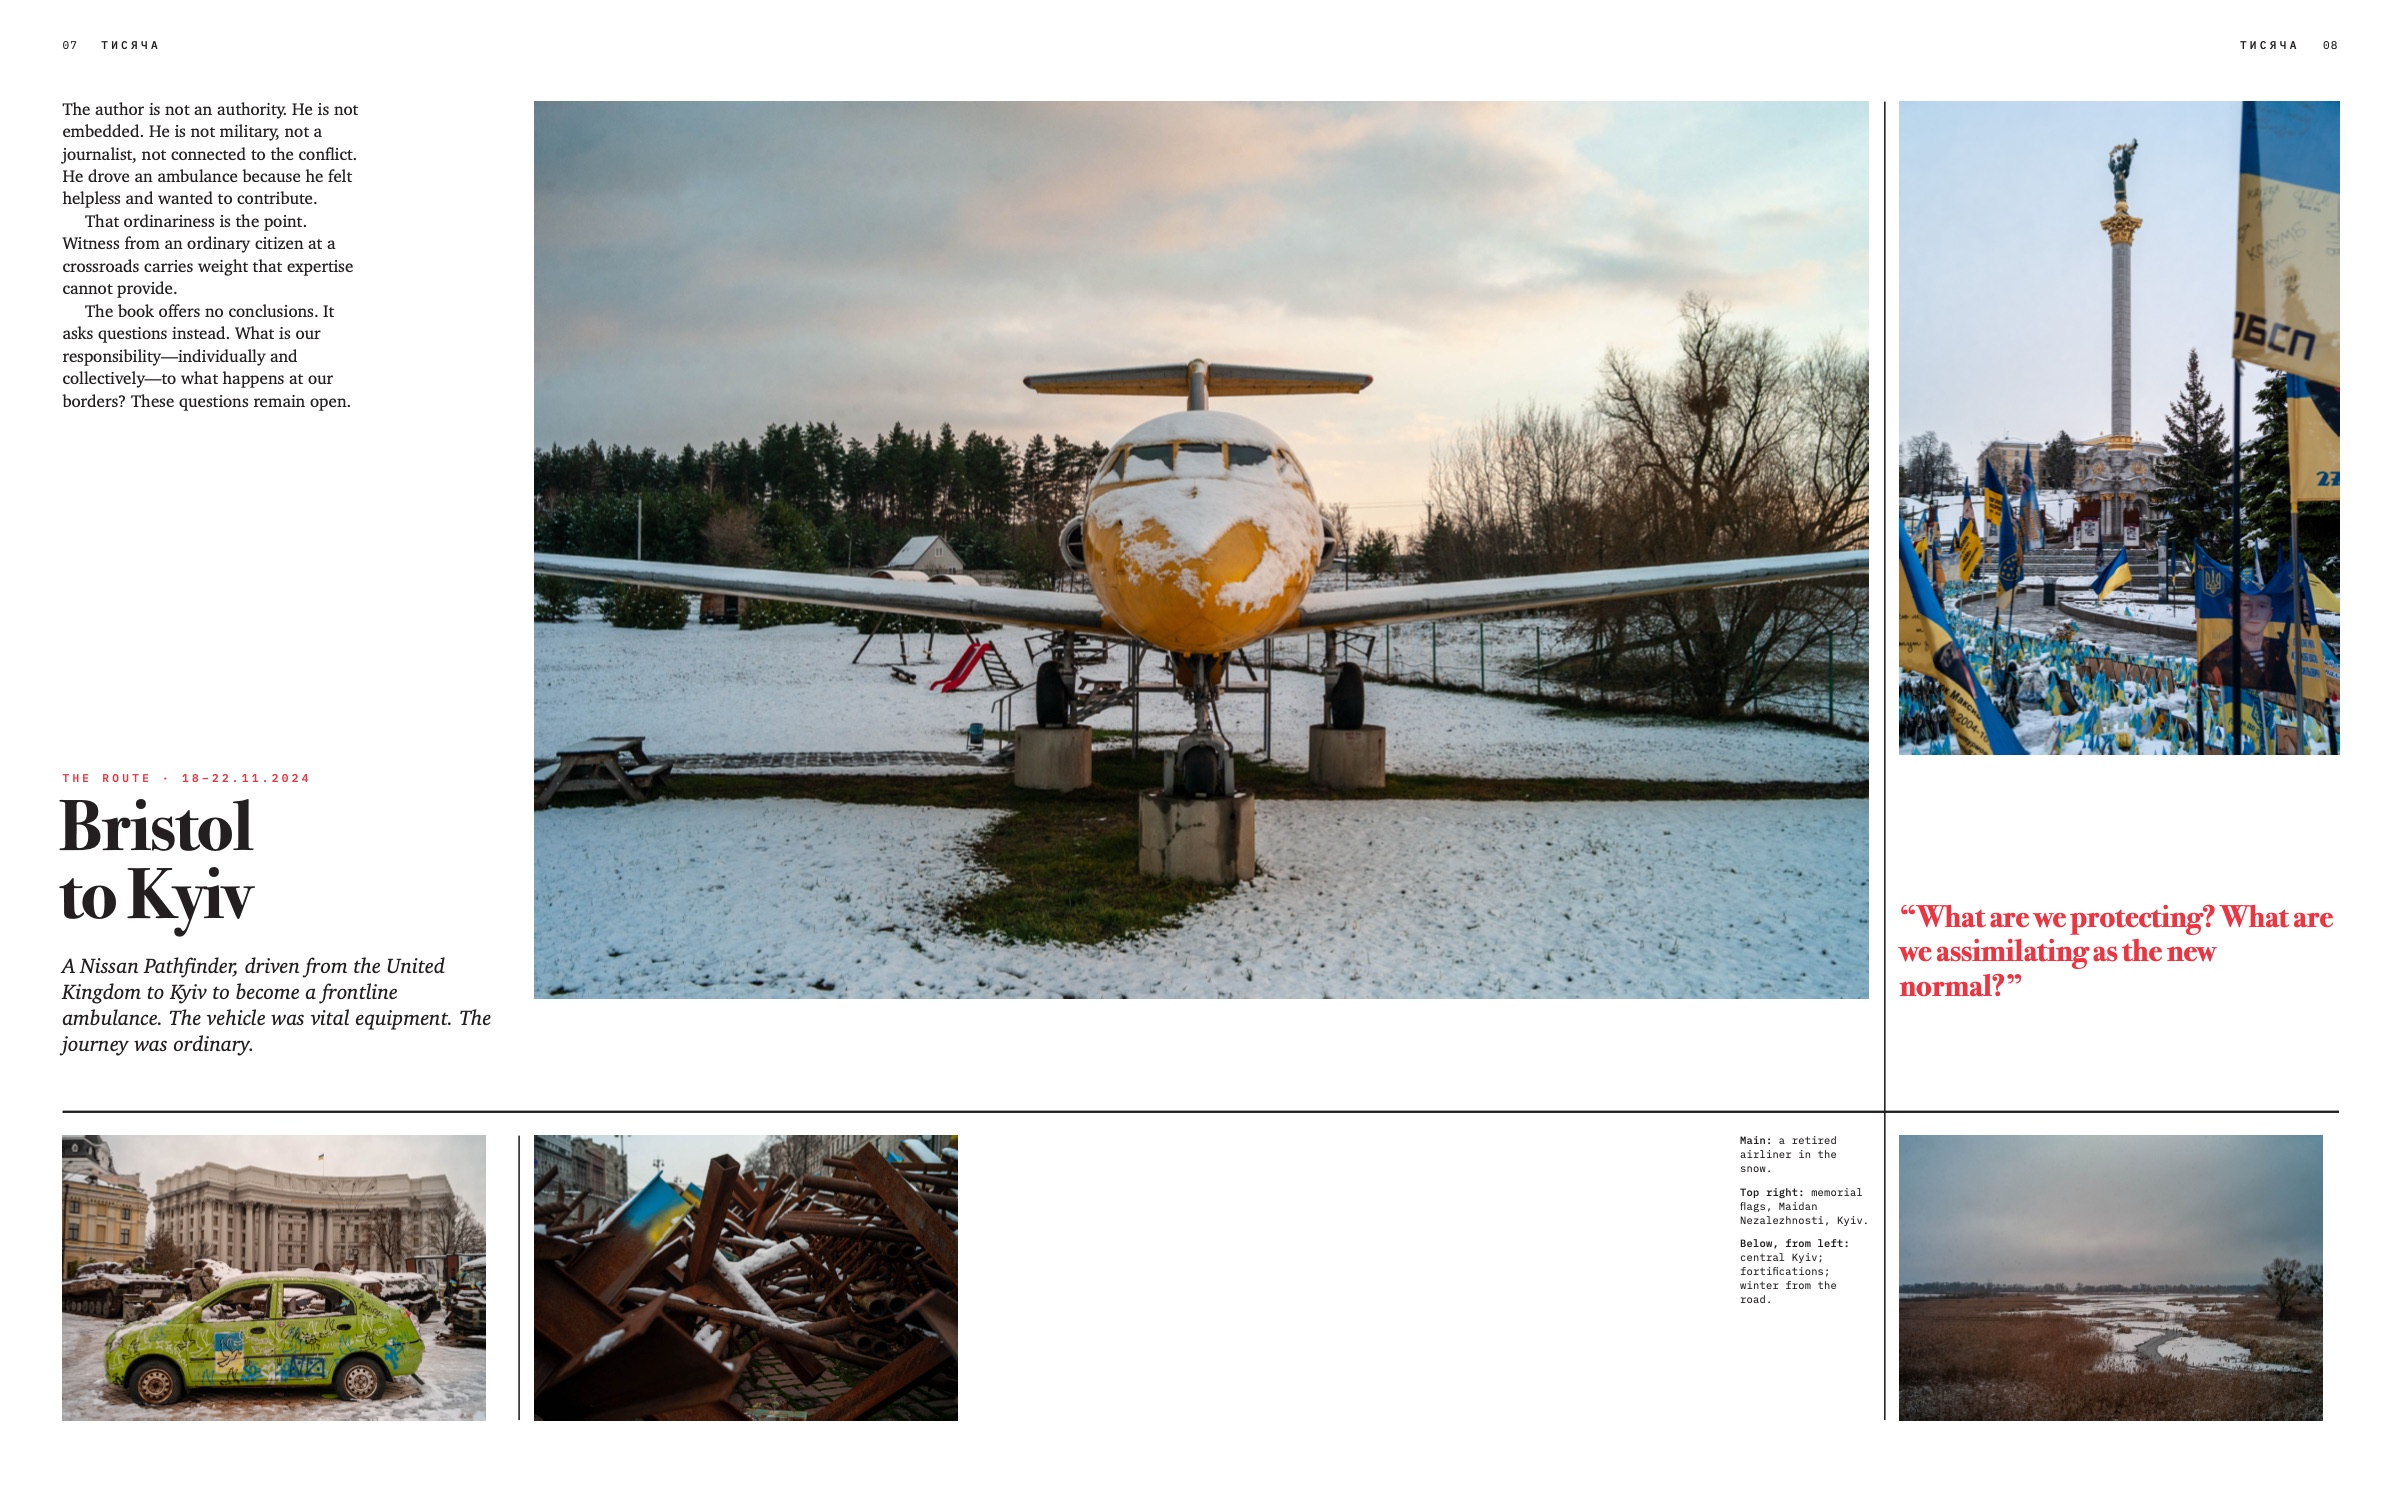
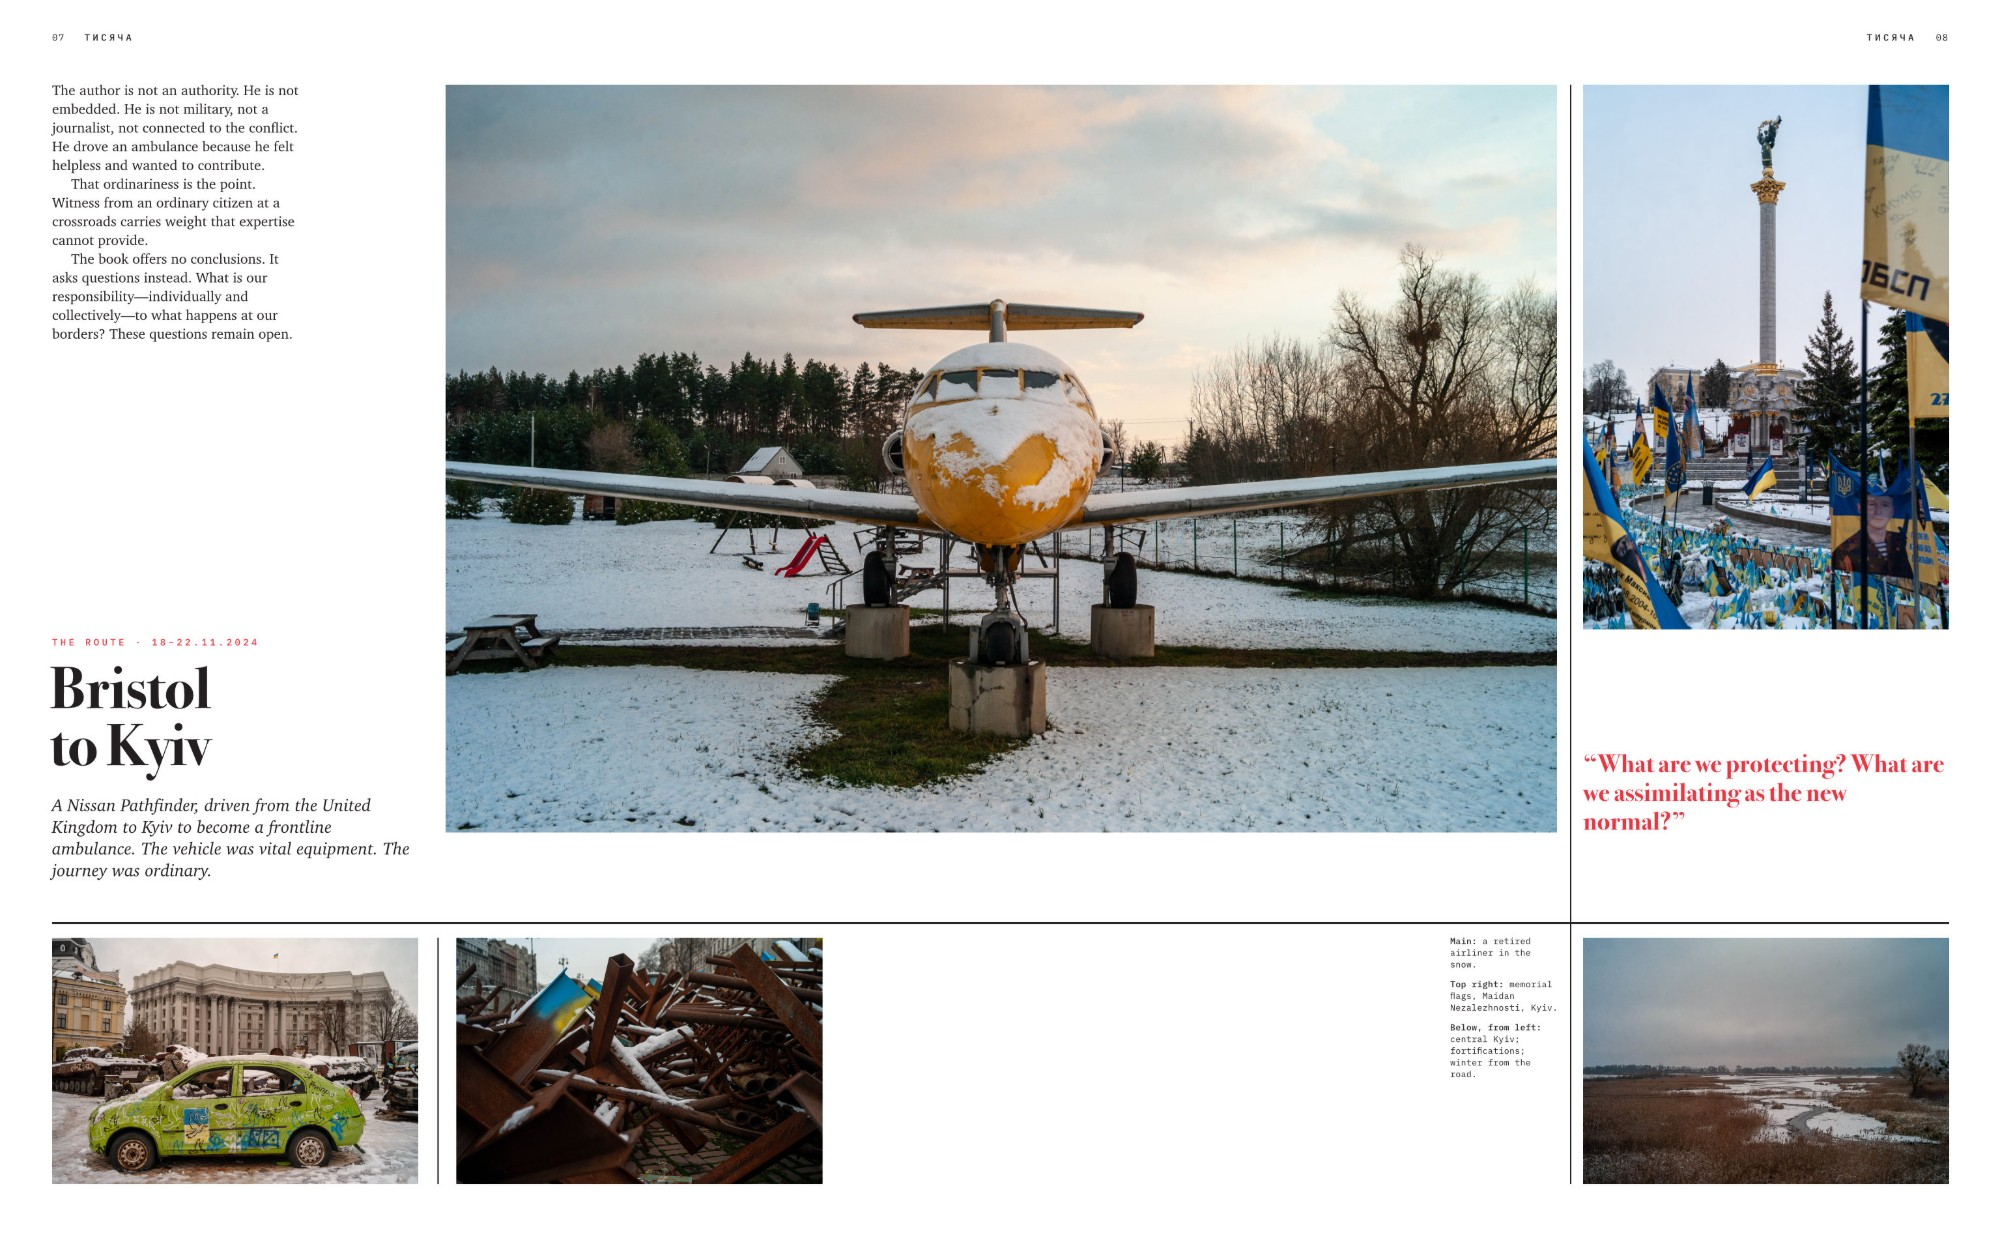
Replace the Bristol to Kyiv spread with its revised layout
Spread 04, the route, takes the revised layout: a taller airliner and
Maidan frame and larger frames along the foot. Used at its own size,
2000 × 1244, rather than enlarged.

diff --git a/site-replica/index.html b/site-replica/index.html
@@ -493,7 +493,7 @@
                     data-alt="Spread: Foreword, a tall frame of a train window onto snowy fields with a jacket hung beside it, and the foreword text with a red pull quote and a small frame of a stained-glass window in a hotel corridor, Lviv"
                     data-desc="A train window onto snow, a jacket hung beside it, then the foreword: fragile shelter, a space to look without being overwhelmed. A stained-glass window in a hotel corridor in Lviv sits beside the text."><span class="sp-n">03</span><span class="sp-t">foreword</span><span class="sp-l"></span><span class="sp-x">2 frames</span></button></li>
               <li><button type="button" class="sp-row" aria-current="false"
-                    data-src="images/info/scrapbook-04.jpg" data-width="2400" data-height="1492"
+                    data-src="images/info/scrapbook-04.jpg" data-width="2000" data-height="1244"
                     data-alt="Spread: Bristol to Kyiv, a large frame of a retired airliner in the snow, memorial flags on Maidan Nezalezhnosti at top right, and three small frames below, central Kyiv, fortifications and winter from the road"
                     data-desc="Bristol to Kyiv: a Nissan Pathfinder, driven from the United Kingdom to become a frontline ambulance. A retired airliner in the snow, memorial flags on Maidan Nezalezhnosti, and below, central Kyiv, fortifications and winter from the road."><span class="sp-n">04</span><span class="sp-t">the route</span><span class="sp-l"></span><span class="sp-x">5 frames</span></button></li>
               <li><button type="button" class="sp-row" aria-current="false"
